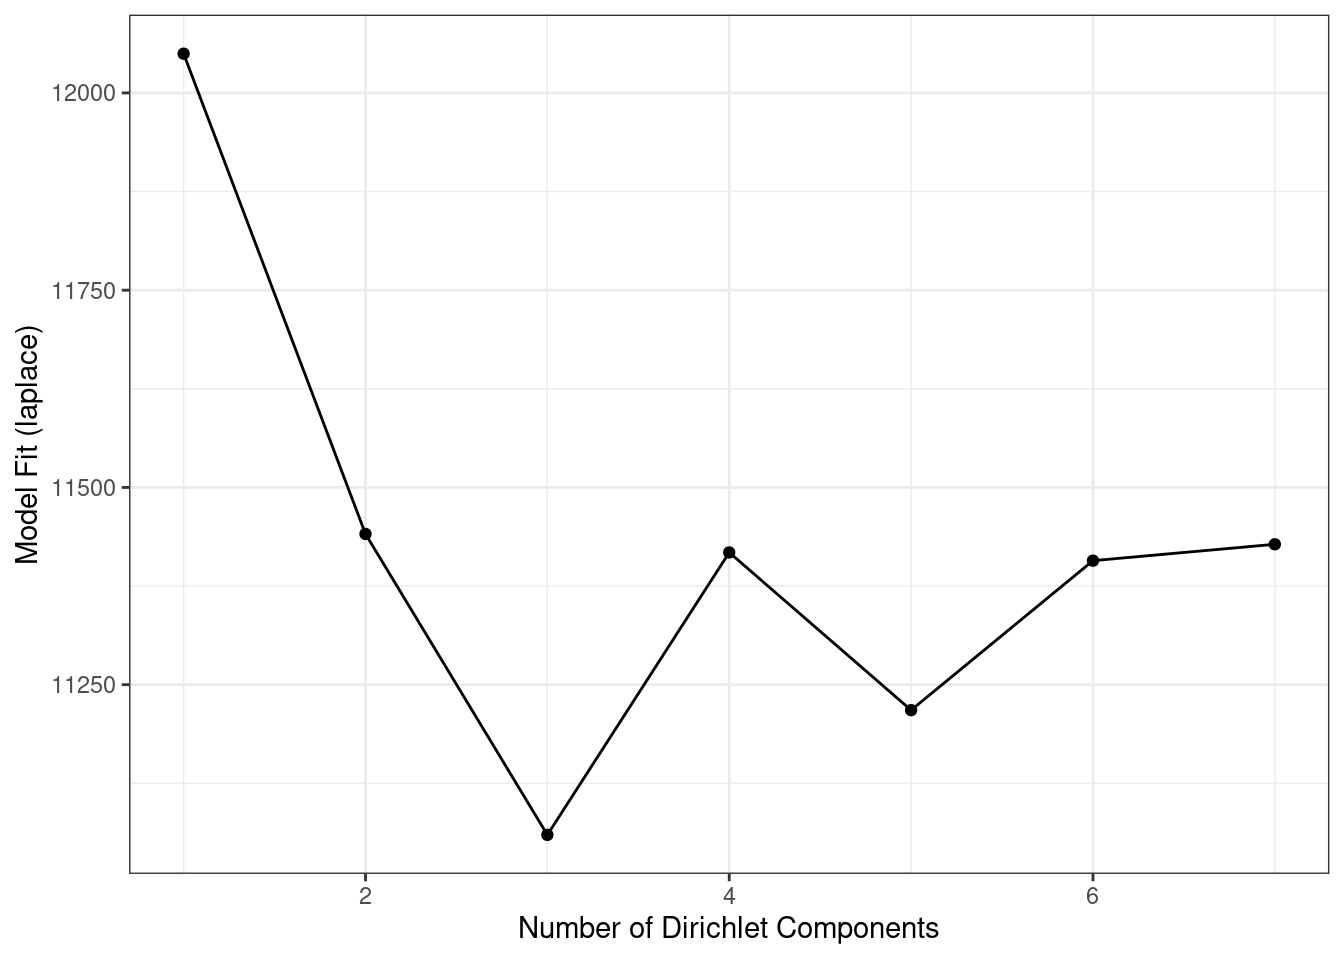
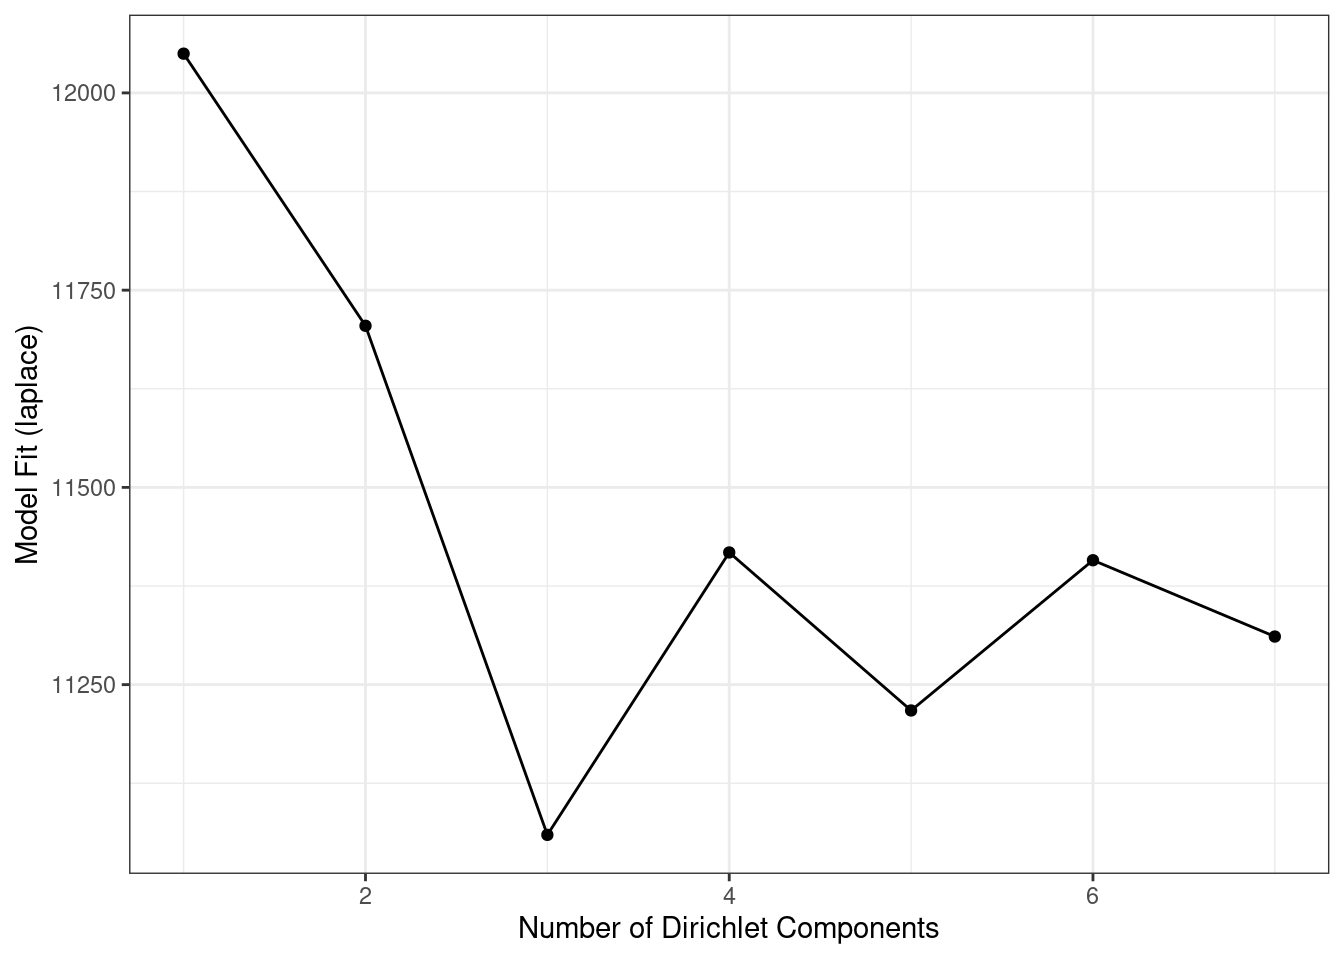
Named material, fixed pdf bug

diff --git a/docs/community-typing.html b/docs/community-typing.html
@@ -295,37 +295,37 @@ reflect the probability that a sample belongs to the given cluster.</p>
 ## class: DMN 
 ## k: 2 
 ## samples x taxa: 27 x 151 
-## Laplace: 11441 BIC: 12161.29 AIC: 11964.97 
+## Laplace: 11704.83 BIC: 12399.15 AIC: 12202.83 
 ## 
 ## [[3]]
 ## class: DMN 
 ## k: 3 
 ## samples x taxa: 27 x 151 
-## Laplace: 11059.63 BIC: 12266.31 AIC: 11971.51 
+## Laplace: 11059.58 BIC: 12266.31 AIC: 11971.51 
 ## 
 ## [[4]]
 ## class: DMN 
 ## k: 4 
 ## samples x taxa: 27 x 151 
-## Laplace: 11417.54 BIC: 13047.39 AIC: 12654.11 
+## Laplace: 11417.53 BIC: 13047.39 AIC: 12654.11 
 ## 
 ## [[5]]
 ## class: DMN 
 ## k: 5 
 ## samples x taxa: 27 x 151 
-## Laplace: 11217.71 BIC: 13305.58 AIC: 12813.8 
+## Laplace: 11217.25 BIC: 13305.58 AIC: 12813.8 
 ## 
 ## [[6]]
 ## class: DMN 
 ## k: 6 
 ## samples x taxa: 27 x 151 
-## Laplace: 11407.17 BIC: 13774.56 AIC: 13184.3 
+## Laplace: 11407.67 BIC: 13852.58 AIC: 13262.32 
 ## 
 ## [[7]]
 ## class: DMN 
 ## k: 7 
 ## samples x taxa: 27 x 151 
-## Laplace: 11427.94 BIC: 14172.79 AIC: 13484.06</code></pre>
+## Laplace: 11310.95 BIC: 14200.57 AIC: 13511.84</code></pre>
 <p>Show Laplace approximation (model evidence) for each model of the k models.</p>
 <div class="sourceCode" id="cb69"><pre class="sourceCode r"><code class="sourceCode r"><span id="cb69-1"><a href="community-typing.html#cb69-1" aria-hidden="true" tabindex="-1"></a><span class="fu">plotDMNFit</span>(tse_dmn, <span class="at">type =</span> <span class="st">&quot;laplace&quot;</span>)</span></code></pre></div>
 <p><img src="radboud2021_material_files/figure-html/unnamed-chunk-42-1.png" width="672" /></p>
@@ -334,7 +334,7 @@ reflect the probability that a sample belongs to the given cluster.</p>
 <pre><code>## class: DMN 
 ## k: 3 
 ## samples x taxa: 27 x 151 
-## Laplace: 11059.63 BIC: 12266.31 AIC: 11971.51</code></pre>
+## Laplace: 11059.58 BIC: 12266.31 AIC: 11971.51</code></pre>
 </div>
 <div id="pcoa-for-asv-level-data-with-bray-curtis-with-dmm-clusters-shown-with-colors" class="section level2" number="8.2">
 <h2><span class="header-section-number">8.2</span> PCoA for ASV-level data with Bray-Curtis; with DMM clusters shown with colors</h2>
@@ -346,34 +346,34 @@ Patient status is used for grouping.</p>
 <span id="cb72-4"><a href="community-typing.html#cb72-4" aria-hidden="true" tabindex="-1"></a>dmn_group</span></code></pre></div>
 <pre><code>## class: DMNGroup 
 ## summary:
-##         k samples taxa      NLE   LogDet  Laplace      BIC      AIC
-## ADHD    3      13  151 6018.131 -345.077 5427.476 6601.657 6473.131
-## Control 3      14  151 6647.269 -147.517 6155.394 7247.655 7102.269</code></pre>
+##         k samples taxa      NLE    LogDet  Laplace      BIC      AIC
+## ADHD    3      13  151 6018.131 -344.7967 5427.616 6601.657 6473.131
+## Control 3      14  151 6647.269 -148.0781 6155.113 7247.655 7102.269</code></pre>
 <p>Mixture weights (rough measure of the cluster size).</p>
 <div class="sourceCode" id="cb74"><pre class="sourceCode r"><code class="sourceCode r"><span id="cb74-1"><a href="community-typing.html#cb74-1" aria-hidden="true" tabindex="-1"></a>DirichletMultinomial<span class="sc">::</span><span class="fu">mixturewt</span>(<span class="fu">getBestDMNFit</span>(tse_dmn))</span></code></pre></div>
 <pre><code>##          pi    theta
-## 1 0.4814815 31.27754
-## 2 0.2962963 47.34454
-## 3 0.2222222 92.27467</code></pre>
+## 1 0.4814815 31.27763
+## 2 0.2962963 47.34284
+## 3 0.2222222 92.27331</code></pre>
 <p>Samples-cluster assignment probabilities / how probable it is that sample belongs
 to each cluster</p>
 <div class="sourceCode" id="cb76"><pre class="sourceCode r"><code class="sourceCode r"><span id="cb76-1"><a href="community-typing.html#cb76-1" aria-hidden="true" tabindex="-1"></a><span class="fu">head</span>(DirichletMultinomial<span class="sc">::</span><span class="fu">mixture</span>(<span class="fu">getBestDMNFit</span>(tse_dmn)))</span></code></pre></div>
 <pre><code>##               [,1]          [,2]          [,3]
-## A110  1.000000e+00 1.254416e-144 7.656724e-205
-## A12  9.760887e-117  6.131972e-93  1.000000e+00
-## A15   1.000000e+00 9.529106e-119 3.434146e-234
-## A19  5.338170e-112 1.824117e-107  1.000000e+00
-## A21   2.132140e-93  4.739560e-96  1.000000e+00
-## A23   1.000000e+00 8.843900e-111 1.960788e-161</code></pre>
+## A110  1.000000e+00 1.244798e-144 7.514955e-205
+## A12  9.815899e-117  6.096459e-93  1.000000e+00
+## A15   1.000000e+00 9.467436e-119 3.352526e-234
+## A19  5.361177e-112 1.810612e-107  1.000000e+00
+## A21   2.140838e-93  4.701014e-96  1.000000e+00
+## A23   1.000000e+00 8.773451e-111 1.919848e-161</code></pre>
 <p>Contribution of each taxa to each component</p>
 <div class="sourceCode" id="cb78"><pre class="sourceCode r"><code class="sourceCode r"><span id="cb78-1"><a href="community-typing.html#cb78-1" aria-hidden="true" tabindex="-1"></a><span class="fu">head</span>(DirichletMultinomial<span class="sc">::</span><span class="fu">fitted</span>(<span class="fu">getBestDMNFit</span>(tse_dmn)))</span></code></pre></div>
-<pre><code>##                 [,1]        [,2]       [,3]
-## 1726470  6.352172217 2.898831884 20.1895112
-## 1726471  5.287829825 0.002047711  0.1532268
-## 17264731 0.001248464 9.144493129  2.0112256
-## 17264726 0.140480698 1.363547275  7.5894470
-## 1726472  2.104152008 3.523459086  2.6657218
-## 17264724 0.072366046 0.002047711  9.8546743</code></pre>
+<pre><code>##                 [,1]       [,2]       [,3]
+## 1726470  6.352541580 2.89868070 20.1891427
+## 1726471  5.287483635 0.00204687  0.1532208
+## 17264731 0.001248688 9.14378060  2.0111654
+## 17264726 0.140481760 1.36349544  7.5893212
+## 1726472  2.104234271 3.52334115  2.6656588
+## 17264724 0.072360723 0.00204687  9.8545213</code></pre>
 <p>Get the assignment probabilities</p>
 <div class="sourceCode" id="cb80"><pre class="sourceCode r"><code class="sourceCode r"><span id="cb80-1"><a href="community-typing.html#cb80-1" aria-hidden="true" tabindex="-1"></a>prob <span class="ot">&lt;-</span> DirichletMultinomial<span class="sc">::</span><span class="fu">mixture</span>(<span class="fu">getBestDMNFit</span>(tse_dmn))</span>
 <span id="cb80-2"><a href="community-typing.html#cb80-2" aria-hidden="true" tabindex="-1"></a><span class="co"># Add column names</span></span>

diff --git a/docs/beta-diversity.html b/docs/beta-diversity.html
@@ -404,7 +404,7 @@ factors. The current standard way to do this is to perform a so-called permutati
 <span id="cb58-10"><a href="beta-diversity.html#cb58-10" aria-hidden="true" tabindex="-1"></a><span class="co"># we can obtain a the p value for our predictor:</span></span>
 <span id="cb58-11"><a href="beta-diversity.html#cb58-11" aria-hidden="true" tabindex="-1"></a><span class="fu">print</span>(<span class="fu">paste0</span>(<span class="st">&quot;Different different cohorts and variance of abundance between samples, p-value: &quot;</span>, </span>
 <span id="cb58-12"><a href="beta-diversity.html#cb58-12" aria-hidden="true" tabindex="-1"></a>             <span class="fu">as.data.frame</span>(permanova_cohort<span class="sc">$</span>aov.tab)[<span class="st">&quot;cohort&quot;</span>, <span class="st">&quot;Pr(&gt;F)&quot;</span>]))</span></code></pre></div>
-<pre><code>## [1] &quot;Different different cohorts and variance of abundance between samples, p-value: 0.7394&quot;</code></pre>
+<pre><code>## [1] &quot;Different different cohorts and variance of abundance between samples, p-value: 0.7389&quot;</code></pre>
 <p>As we see, the cohort variable is not significantly associated with
 microbiota composition (p-value is over 0.05).</p>
 <p>We can still visualize those taxa whose abundances are the most
